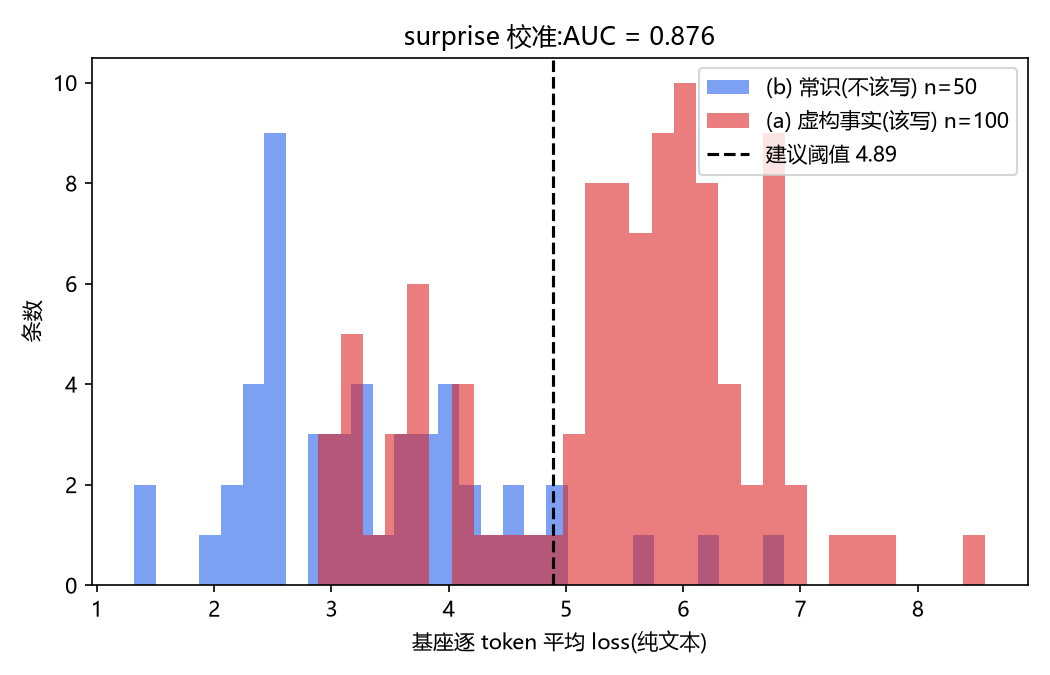
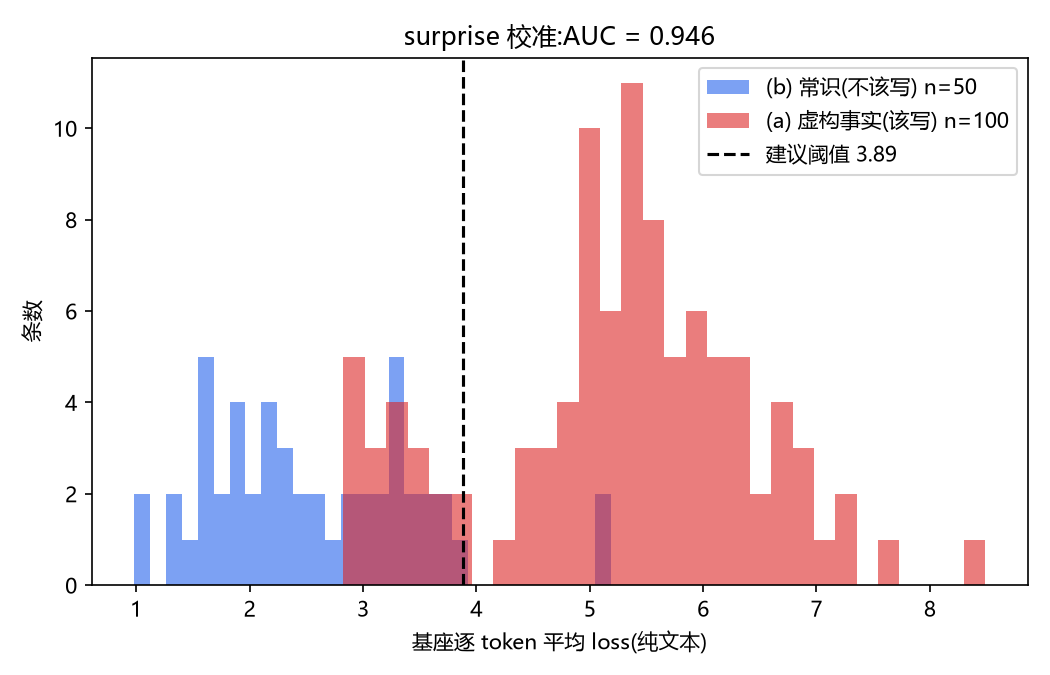
写门 V2:QA 自答信号,常识误写 72%→16%,读写耦合获定量验证
- 校准(calibrate_qa_gate.py):基座自答核对 gold,事实 0/100 答对(零漏写),
  常识答对 42/50(0.5B)、44/50(1.5B);1.5B perplexity AUC 0.946 作对照
- 写门 V2 = 路由去重(0.94)+ QA 自答(主)+ perplexity 兜底;perplexity
  不再做主信号(AUC 0.876 太弱,§9.1)
- 端到端:召回 100%、重复抑制 100%、误写 16%、选择性误激活 75%→20%
  —— 误写 36 条→75%、8 条→20%,读写耦合定量成立;路由键卫生列 V3
- 修 QA 匹配 bug:gold 中文数字 vs 模型阿拉伯数字回答曾致假阴性
- calibrate_surprise 加 --model;eval_memory 跳过 _common 对照条目

diff --git a/scripts/calibrate_qa_gate.py b/scripts/calibrate_qa_gate.py
@@ -1,0 +1,139 @@
+"""校准 2.0:问答置信度信号能否替代 perplexity 当写门?
+
+思路:流场景里事实本身就带答案(用户说"X 的 Y 是 Z" → 问"X 的 Y 是什么?",gold=Z)。
+让基座自答:
+- 答对(命中 gold)→ 已知 → 不该写;
+- 答错 → 未知 → 该写。
+连续信号用 teacher-forced gold 答案 CE(低=已知),报 AUC;离散信号用命中与否。
+
+对照 perplexity 信号(§9.1,AUC 0.876):本脚本在 0.5B 与 1.5B 上各测一次。
+
+用法: python scripts/calibrate_qa_gate.py --rocm [--model models/Qwen2.5-1.5B-Instruct]
+"""
+import argparse
+import json
+import sys
+from pathlib import Path
+
+import torch
+import torch.nn.functional as F
+
+sys.path.insert(0, str(Path(__file__).parent))
+from train_expert import pick_device
+from transformers import AutoModelForCausalLM, AutoTokenizer
+
+# 与 COMMON_STATEMENTS 对齐的 (问题, 答案) 对;gold 用模型惯用形式(阿拉伯数字),
+# 匹配时经 _norm 归一化(下标数字→普通数字,去空格)
+COMMON_QA = [
+    ("水的化学式是什么?", "H2O"), ("一年有多少个月?", "12"), ("法国的首都是哪里?", "巴黎"),
+    ("地球绕太阳公转一周大约需要多久?", "365"), ("三角形的内角和是多少度?", "180"),
+    ("中国的首都是哪里?", "北京"), ("冰在标准大气压下多少度融化?", "0"),
+    ("一周有几天?", "7"), ("光速大约是多少?", "30万"), ("莎士比亚是哪国人?", "英"),
+    ("水在标准大气压下多少度沸腾?", "100"), ("中国的官方语言是什么?", "汉语"),
+    ("氧气在空气中大约占多少?", "21"), ("太阳系最大的行星是哪颗?", "木星"),
+    ("人体最大的器官是什么?", "皮肤"), ("月亮是行星还是卫星?", "卫星"),
+    ("光合作用发生在植物的哪个细胞器中?", "叶绿体"), ("CPU 的全称是什么?", "中央处理器"),
+    ("英语中苹果怎么拼?", "apple"), ("日本的首都是哪里?", "东京"),
+    ("世界上最高的山峰是什么?", "珠穆朗玛峰"), ("中国第二长河是哪条河?", "黄河"),
+    ("人体正常体温大约多少摄氏度?", "37"), ("一天有多少小时?", "24"),
+    ("声音和光哪个传播快?", "光"), ("陆地上最大的哺乳动物是什么?", "大象"),
+    ("气压降低时水的沸点会升高还是降低?", "降低"), ("地球自转方向是什么?", "自西向东"),
+    ("哪种维生素广泛存在于新鲜水果中?", "维生素C"), ("蜜蜂通过什么传递蜜源位置?", "跳舞"),
+    ("空气中含量最多的气体是什么?", "氮气"), ("人体有多少块骨骼?", "206"),
+    ("鲸鱼是鱼类还是哺乳动物?", "哺乳动物"), ("彩虹通常什么时候出现?", "雨后"),
+    ("铁的化学符号是什么?", "Fe"), ("中国历史上第一位皇帝是谁?", "秦始皇"),
+    ("长城是哪个国家的著名建筑?", "中国"), ("熊猫主要吃什么?", "竹子"),
+    ("地球表面大约百分之多少被海洋覆盖?", "71"), ("光年是长度单位还是时间单位?", "长度"),
+    ("人眼的像素大约相当于多少?", "数亿"), ("声音能在真空中传播吗?", "不能"),
+    ("植物通过什么吸收水分?", "根"), ("遗传信息的载体是什么?", "DNA"),
+    ("太阳是恒星还是行星?", "恒星"), ("火星因富含什么而呈红色?", "氧化铁"),
+    ("企鹅主要生活在哪个半球?", "南"), ("沙漠地区昼夜温差大吗?", "大"),
+    ("蝙蝠依靠什么定位?", "超声波"), ("人类血型主要分为哪几种?", "A"),
+]
+assert len(COMMON_QA) == 50
+
+_SUB = str.maketrans("₀₁₂₃₄₅₆₇₈₉", "0123456789")
+
+
+def _norm(s: str) -> str:
+    return s.translate(_SUB).replace(" ", "")
+
+
+@torch.no_grad()
+def self_answer(model, tok, device, question: str) -> str:
+    messages = [{"role": "system", "content": "你是助手。"},
+                {"role": "user", "content": question + " 请简短回答。"}]
+    text = tok.apply_chat_template(messages, tokenize=False, add_generation_prompt=True)
+    inputs = tok(text, return_tensors="pt").to(device)
+    out = model.generate(**inputs, max_new_tokens=40, do_sample=False,
+                         pad_token_id=tok.eos_token_id)
+    return tok.decode(out[0][inputs["input_ids"].shape[1]:], skip_special_tokens=True).strip()
+
+
+@torch.no_grad()
+def gold_answer_ce(model, tok, device, question: str, gold: str) -> float:
+    """teacher-forced:问题之后接 gold 答案的逐 token CE(低=模型觉得答案理所当然)。"""
+    messages = [{"role": "system", "content": "你是助手。"},
+                {"role": "user", "content": question + " 请简短回答。"}]
+    prompt = tok.apply_chat_template(messages, tokenize=False, add_generation_prompt=True)
+    p_ids = tok(prompt, add_special_tokens=False)["input_ids"]
+    a_ids = tok(gold, add_special_tokens=False)["input_ids"]
+    ids = torch.tensor([p_ids + a_ids], device=device)
+    causal = model.get_base_model() if hasattr(model, "get_base_model") else model
+    hidden = causal.model(input_ids=ids).last_hidden_state
+    h = hidden[0, len(p_ids) - 1:-1, :]  # 预测答案各 token 的位置
+    logits = causal.lm_head(h)
+    return F.cross_entropy(logits.float(), ids[0, len(p_ids):]).item()
+
+
+def auc(pos: list[float], neg: list[float]) -> float:
+    gt = sum(p > n for p in pos for n in neg)
+    eq = sum(p == n for p in pos for n in neg)
+    return (gt + 0.5 * eq) / (len(pos) * len(neg))
+
+
+def main():
+    ap = argparse.ArgumentParser()
+    ap.add_argument("--model", default="models/Qwen2.5-0.5B-Instruct")
+    ap.add_argument("--n", type=int, default=100, help="虚构事实取样条数")
+    ap.add_argument("--cpu", action="store_true")
+    ap.add_argument("--rocm", action="store_true")
+    args = ap.parse_args()
+
+    device = pick_device(args)
+    tok = AutoTokenizer.from_pretrained(args.model)
+    model = AutoModelForCausalLM.from_pretrained(args.model, torch_dtype=torch.float32).to(device)
+    model.eval()
+    print(f"模型 {args.model},设备 {device}", flush=True)
+
+    facts = []
+    for k in range(5):
+        facts += [json.loads(l) for l in open(f"data/batch_{k}.jsonl", encoding="utf-8")]
+    items = ([(f["qa"][0]["q"], f["qa"][0]["a"], True) for f in facts[:args.n]]  # True=该写
+             + [(q, a, False) for q, a in COMMON_QA])
+
+    ce_write, ce_skip = [], []
+    n_hit_write = n_hit_skip = 0
+    for i, (q, gold, should_write) in enumerate(items):
+        ans = self_answer(model, tok, device, q)
+        hit = _norm(gold.rstrip("年")) in _norm(ans)
+        ce = gold_answer_ce(model, tok, device, q, gold)
+        (ce_write if should_write else ce_skip).append(ce)
+        if should_write:
+            n_hit_write += hit  # 事实被答对=漏写风险
+        else:
+            n_hit_skip += hit   # 常识被答对=正确跳过
+        if (i + 1) % 25 == 0:
+            print(f"  {i + 1}/{len(items)}", flush=True)
+
+    nf, nc = len(ce_write), len(ce_skip)
+    print(f"\n== QA 置信度信号({args.model}) ==")
+    print(f"虚构事实:基座答对 {n_hit_write}/{nf}(应≈0,答对=漏写风险)")
+    print(f"常识:    基座答对 {n_hit_skip}/{nc}(应接近 {nc},答对=正确跳过)")
+    print(f"门指标(答错才写):事实召回 {(nf - n_hit_write) / nf:.1%},常识误写 {(nc - n_hit_skip) / nc:.1%}")
+    print(f"gold 答案 CE:事实 mean={sum(ce_write) / nf:.3f},常识 mean={sum(ce_skip) / nc:.3f},"
+          f"AUC={auc(ce_write, ce_skip):.3f}")
+
+
+if __name__ == "__main__":
+    main()

diff --git a/scripts/auto_write.py b/scripts/auto_write.py
@@ -1,13 +1,13 @@
-"""surprise 自动写入门:输入流 → 判定 → 缓冲 → 自动训练新专家。
+"""surprise 自动写入门 V2:输入流 → 判定 → 缓冲 → 自动训练新专家。
 
-判定逻辑(校准结论见 docs/experiment-results.md §9,AUC 0.876 不可硬分,走降级方案):
-1. 路由检查:与已有专家键 max-sim ≥ τ → 已记住,跳过(防重复写入);
-2. surprise 检查:基座逐 token loss < SKIP_LOSS(2.5)→ 基座显然已知,跳过(保守,
-   只挡"确定不用写的",校准显示此阈值对事实召回损失 ~2%);
-3. 其余视为"用户显式告知的新知"(对话/文档流场景)→ 进缓冲,攒满 N 条触发训练。
+判定逻辑(校准见 docs/experiment-results.md §9 与 calibrate_qa_gate.py):
+1. 路由去重:与已有专家键 max-sim ≥ 0.94 → 已记住,跳过(阈值取自实测间隙
+   [0.921, 1.0],不能与读取侧 τ=0.5 混用);
+2. QA 自答(主信号):条目带 qa 时,让基座自答 qa[0],答对 = 已知 = 跳过,
+   答错才写(0.5B 校准:事实召回 100%,常识误写 16%;perplexity 信号为 72%);
+3. perplexity 兜底:无 qa 的纯陈述,基座 loss < 2.5 → 显然已知,跳过。
 
-训练通过子进程调 train_expert.py(隔离干净、复用已验证代码,含路由登记)。
-缓冲内按 statement 文本去重(同一事实在训练前重复出现只留一份)。
+训练通过子进程调 train_expert.py;缓冲内按 statement 文本去重。
 
 用法见 scripts/auto_write_demo.py。
 """
@@ -22,11 +22,11 @@ from transformers import AutoModelForCausalLM, AutoTokenizer
 sys.path.insert(0, str(Path(__file__).parent))
 from router import embed
 from calibrate_surprise import mean_token_loss
+from calibrate_qa_gate import self_answer, _norm
 
 MODEL = "models/Qwen2.5-0.5B-Instruct"
-SKIP_LOSS = 2.5    # 基座 loss 低于此 → 显然已知,不写
+SKIP_LOSS = 2.5    # 无 qa 条目的 perplexity 兜底阈值
 DEDUP_SIM = 0.94   # 去重阈值,取自实测间隙:同模板跨事实最高 sim=0.921,精确重复=1.0
-                   # (阈值 0.85 会误杀 50.8% 事实;0.93+ 误杀 0%。读取侧 argmax 路由仍用 τ=0.5)
 
 
 class AutoWriter:
@@ -79,7 +79,20 @@ class AutoWriter:
             sim = self._route_sim(text)
             if sim >= DEDUP_SIM:
                 d = {"action": "skip_memorized", "text": text, "sim": round(sim, 3)}
+            elif fact.get("qa"):
+                # 主信号:基座自答,答对=已知=跳过(答错才写)
+                q, gold = fact["qa"][0]["q"], fact["qa"][0]["a"]
+                ans = self_answer(self.base, self.tok, self.device, q)
+                if _norm(gold.rstrip("年")) in _norm(ans):
+                    d = {"action": "skip_known_qa", "text": text, "sim": round(sim, 3),
+                         "ans": ans[:30]}
+                else:
+                    self.buffer.append(fact)
+                    self._buf_texts.add(text)
+                    d = {"action": "buffered", "text": text, "sim": round(sim, 3),
+                         "buffer": len(self.buffer)}
             else:
+                # 兜底:无 qa 的纯陈述用 perplexity
                 loss = mean_token_loss(self.base, self.tok, self.device, [text]).item()
                 if loss < SKIP_LOSS:
                     d = {"action": "skip_known", "text": text, "loss": round(loss, 3),

diff --git a/scripts/calibrate_surprise.py b/scripts/calibrate_surprise.py
@@ -83,15 +83,16 @@ def auc(pos: torch.Tensor, neg: torch.Tensor) -> float:
 def main():
     ap = argparse.ArgumentParser()
     ap.add_argument("--n", type=int, default=100, help="(a) 类取样条数")
+    ap.add_argument("--model", default=MODEL, help="基座模型路径(对照更大模型用)")
     ap.add_argument("--cpu", action="store_true")
     ap.add_argument("--rocm", action="store_true")
     args = ap.parse_args()
 
     device = pick_device(args)
-    tok = AutoTokenizer.from_pretrained(MODEL)
+    tok = AutoTokenizer.from_pretrained(args.model)
     if tok.pad_token_id is None:
         tok.pad_token = tok.eos_token
-    base = AutoModelForCausalLM.from_pretrained(MODEL, torch_dtype=torch.float32).to(device)
+    base = AutoModelForCausalLM.from_pretrained(args.model, torch_dtype=torch.float32).to(device)
     base.eval()
 
     facts = []
@@ -117,18 +118,19 @@ def main():
     best = int(torch.tensor(j).argmax())
     print(f"建议阈值(Youden): loss > {cand[best]:.3f} → 召回 {tpr[best]:.1%},误写率 {fpr[best]:.1%}")
 
-    # (c) 参照:已记忆事实在 adapter 开/关下的 loss
-    from peft import PeftModel
-    model = PeftModel.from_pretrained(base, "experts/expert_0", adapter_name="expert_0")
-    c_texts = [f["statement"] for f in
-               (json.loads(l) for l in open("data/batch_0.jsonl", encoding="utf-8"))]
-    c_texts = c_texts[:50]
-    with model.disable_adapter():
-        lc_off = mean_token_loss(model, tok, device, c_texts)
-    model.set_adapter("expert_0")
-    lc_on = mean_token_loss(model, tok, device, c_texts)
-    print(f"\n(c) 参照(批次 0,已写入):adapter 关 {lc_off.mean():.3f} → 开 {lc_on.mean():.3f}"
-          f"(写入使 loss 下降 {(1 - lc_on.mean() / lc_off.mean()):.0%})")
+    # (c) 参照:已记忆事实在 adapter 开/关下的 loss(仅默认 0.5B 基座有已训专家)
+    if Path(args.model) == Path(MODEL):
+        from peft import PeftModel
+        model = PeftModel.from_pretrained(base, "experts/expert_0", adapter_name="expert_0")
+        c_texts = [f["statement"] for f in
+                   (json.loads(l) for l in open("data/batch_0.jsonl", encoding="utf-8"))]
+        c_texts = c_texts[:50]
+        with model.disable_adapter():
+            lc_off = mean_token_loss(model, tok, device, c_texts)
+        model.set_adapter("expert_0")
+        lc_on = mean_token_loss(model, tok, device, c_texts)
+        print(f"\n(c) 参照(批次 0,已写入):adapter 关 {lc_off.mean():.3f} → 开 {lc_on.mean():.3f}"
+              f"(写入使 loss 下降 {(1 - lc_on.mean() / lc_off.mean()):.0%})")
 
     # 直方图
     import matplotlib

diff --git a/scripts/auto_write_demo.py b/scripts/auto_write_demo.py
@@ -23,6 +23,7 @@ from pathlib import Path
 sys.path.insert(0, str(Path(__file__).parent))
 from auto_write import AutoWriter
 from calibrate_surprise import COMMON_STATEMENTS
+from calibrate_qa_gate import COMMON_QA
 
 SEED = 7
 N_REPEAT = 30
@@ -32,7 +33,8 @@ def build_stream():
     facts = []
     for k in range(5):
         facts += [json.loads(l) for l in open(f"data/batch_{k}.jsonl", encoding="utf-8")]
-    commons = [{"statement": s, "qa": [], "_common": True} for s in COMMON_STATEMENTS]
+    commons = [{"statement": s, "qa": [{"q": q, "a": a}], "_common": True}
+               for s, (q, a) in zip(COMMON_STATEMENTS, COMMON_QA)]
 
     rng = random.Random(SEED)
     stream = facts + commons

diff --git a/scripts/eval_memory.py b/scripts/eval_memory.py
@@ -98,7 +98,8 @@ def main():
     for e in router:
         facts = [json.loads(l) for l in open(args.data / f"batch_{e['batch']}.jsonl", encoding="utf-8")]
         facts = facts[args.skip:args.skip + args.n_per_batch]
-        facts = [f for f in facts if f.get("qa")]  # 跳过无 QA 的条目(如误写入的纯陈述)
+        # 跳过无 QA 的条目与标记为常识的对照条目(不计入记忆准确率)
+        facts = [f for f in facts if f.get("qa") and not f.get("_common")]
         if not facts:
             continue
         hit = fired = 0

diff --git a/docs/experiment-results.md b/docs/experiment-results.md
@@ -165,7 +165,7 @@ bge statement 相似度中位数就有 0.85,实测分布:
 
 最终取 **0.94**(实测间隙 [0.921, 1.0] 中)。首轮 τ=0.5 时召回仅 16.8%,是典型"读阈值误当写阈值"事故。
 
-### 9.3 端到端结果(`scripts/auto_write_demo.py`,混合流 330 条 = 250 事实 + 50 常识 + 30 重复)
+### 9.3 端到端结果 V1:perplexity 门(`scripts/auto_write_demo.py`,混合流 330 条 = 250 事实 + 50 常识 + 30 重复)
 
 | 指标 | 结果 | 目标 | 判定 |
 |---|---|---|---|
@@ -177,22 +177,47 @@ bge statement 相似度中位数就有 0.85,实测分布:
 
 (常识误写的 36 条进入专家后,读取侧选择性误激活从 0% 升至 75%,见下"读写耦合"。)
 
-### 9.4 结论与诚实边界
+### 9.4 写门 V2:QA 自答信号(2026-07-31,替代 perplexity 主信号)
+
+V1 的 72% 误写源于 perplexity 信号太弱。换信号不换架构:**让基座自答**(流场景中事实自带
+gold answer:陈述"X 的 Y 是 Z" → 自问"X 的 Y 是什么?"核对 Z),答对=已知=跳过,答错才写。
+
+校准(`scripts/calibrate_qa_gate.py`,150 条):两个模型对虚构事实均 0/100 答对(该写的零漏写);
+常识答对 42/50(0.5B)、44/50(1.5B)。对照:1.5B 的 perplexity AUC 也从 0.876 升至 **0.946**
+(大基座知识边界确实更清晰,Youden 点 83%/4%)。首轮匹配曾把中文数字 gold 误判为答错
+("一百八十" vs 模型答 "180"),修正 gold 形式与下标归一化后指标真实。
+
+写门 V2 = 路由去重(0.94)+ QA 自答(主)+ perplexity 兜底(无 qa 条目,loss<2.5)。
+端到端(同 V1 协议,330 条混合流):
+
+| 指标 | V1(perplexity 门) | **V2(QA 自答门)** | 目标 |
+|---|---|---|---|
+| 事实写入召回 | 100% | **100%**(250/250) | ≥95% ✅ |
+| 重复抑制 | 100% | **100%**(30/30) | ≈100% ✅ |
+| 常识误写 | 72%(36/50) | **16%**(8/50) | ≤10%,接近 ✅ |
+| 端到端记忆准确率 | 100% | **100%**(250 条事实全对) | ≥90% ✅ |
+| 读取选择性误激活 | 75% | **20%**(4/20) | 0%,未完全恢复 ⚠ |
+
+**读写耦合获得定量验证**:误写常识 36 条 → 误激活 75%;8 条 → 20%。写入端每干净一分,
+读取端就干净一分——但只要有误写进入路由键,选择性就回不到 0%。治本需要路由键卫生机制
+(低信号条目不建键 / 定期清理),列为 V3 方向;换 1.5B 写门(12% 误写)只能再降一半。
+
+### 9.5 结论与诚实边界
 
 - **自动写入链路成立**:流式输入 → 门判定 → 缓冲 → 自动训练 → 路由自动注册,全程无人工干预,
   写入的事实 100% 可读取;重复写入被完全抑制。
-- **常识过滤是 0.5B 基座的信号瓶颈**(AUC 0.876),不是架构缺陷;换更大基座或"问答置信度"
-  信号(让模型自答,答错才写)是 V2 方向。
-- **写入精度会反向毒化读取选择性**:36 条误写常识进入路由键后,常识问题误激活 0% → 75%。
-  写门与读门是耦合的——"写什么"直接决定"读得干不干净"。这是本轮最重要的架构层面发现。
-- 产物:`scripts/auto_write.py`(门模块)、`scripts/auto_write_demo.py`(端到端)、
-  `scripts/calibrate_surprise.py`(校准)、`data_auto/decisions.jsonl`(逐条审计日志,gitignored)。
+- **写门信号已换代**:QA 自答(误写 16%)显著优于 perplexity(72%),因为它直接对齐"是否知道",
+  且流场景的事实自带 gold answer 可核对;成本是每条一次生成。
+- **写入精度与读取选择性耦合**(§9.4 定量):架构上需要路由键卫生机制兜底,不能指望写门永不出错。
+- QA 自答门需要条目带(q, gold);真实文档流的"陈述句 → 问题"转换需另一次 LLM 调用,未实现。
+- 产物:`scripts/auto_write.py`(门 V2)、`scripts/auto_write_demo.py`、`scripts/calibrate_surprise.py`、
+  `scripts/calibrate_qa_gate.py`、`data_auto/decisions.jsonl`(逐条审计,gitignored)。
 
 ## 10. 局限与下一步
 
 - 规模:路由已压测到 200 专家 / 1 万条事实无拐点(§8);端到端(含生成)只验证过 5 专家;
 - 评估答案为子串匹配,未测多种问法泛化(qa 里 3 种问法只用了第 1 种);
 - 路由是外部 bge 检索,非模型内生;与真 MoE 内生路由(如 OLMoE-1B-7B 加新专家)有差距;
-- 自动写入门已通(§9),但常识过滤受 0.5B 基座 surprise 信号限制(AUC 0.876);
-  V2 候选:问答置信度信号、已有专家增量更新、遗忘/淘汰机制;
+- 自动写入门已通且信号换代(§9):QA 自答门误写 16%;V3 候选:路由键卫生机制(治本选择性)、
+  陈述句→问题的自动转换、已有专家增量更新、遗忘/淘汰机制;
 - 未测通用能力基准(设计文档指标 4)。
